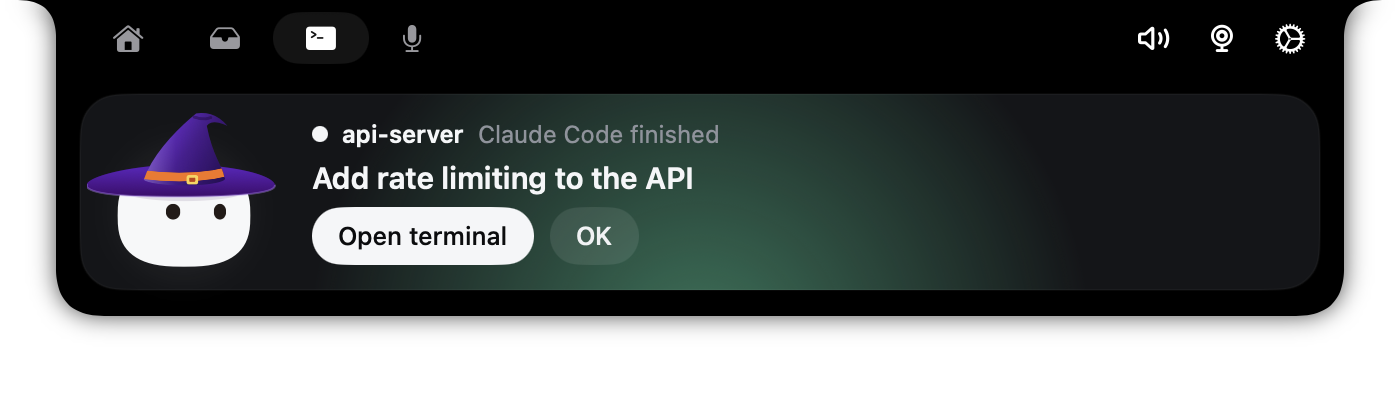
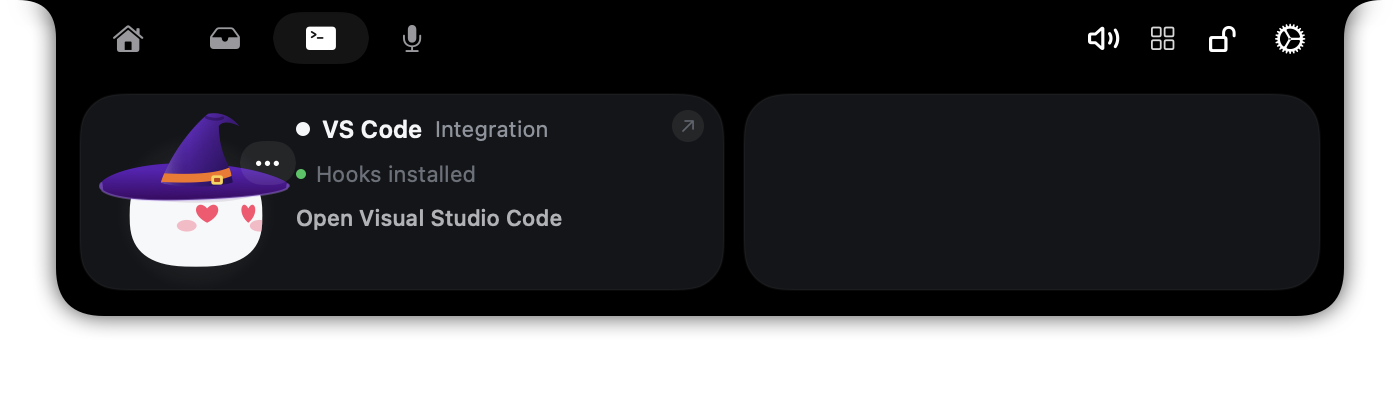
README: hero is the Home page, badges, download steps, current features; MIT licence for Tuckr's own files; own SECURITY.md and CONTRIBUTING

Changed region(s): [[0.0614, 0.2167, 0.7064, 0.7119], [0.7679, 0.0619, 0.8907, 0.1238]]

diff --git a/scripts/make-readme-images.swift b/scripts/make-readme-images.swift
@@ -47,7 +47,7 @@ func render(size: CGSize, _ body: (CGContext) -> Void, to name: String) {
 render(size: CGSize(width: 1600, height: 340), { ctx in
     let full = CGRect(x: 0, y: 0, width: 1600, height: 340)
     backdrop(ctx, full, hue: 0)
-    place(ctx, load("agents"), inTile: full, width: 1120)
+    place(ctx, load("home"), inTile: full, width: 1120)
 }, to: "hero")
 
 let names = ["home", "shelf", "agents", "meetings"]

diff --git a/README.md b/README.md
@@ -9,10 +9,22 @@
 <p align="center"><b>Everything you reach for, tucked into your Mac's notch: music, agents, messages, dictation and more.</b></p>
 
 <p align="center">
+  <a href="https://github.com/serjdmitri/Tuckr/releases/latest"><img src="https://img.shields.io/github/v/release/serjdmitri/Tuckr?label=release&color=7b5cff" alt="Latest release"></a>
+  <a href="https://github.com/serjdmitri/Tuckr/releases"><img src="https://img.shields.io/github/downloads/serjdmitri/Tuckr/total?label=downloads&color=2ea44f" alt="Downloads"></a>
+  <a href="https://github.com/serjdmitri/Tuckr/stargazers"><img src="https://img.shields.io/github/stars/serjdmitri/Tuckr?style=flat&color=e3b341" alt="Stars"></a>
+  <a href="https://github.com/serjdmitri/Tuckr/commits/main"><img src="https://img.shields.io/github/last-commit/serjdmitri/Tuckr?color=8957e5" alt="Last commit"></a>
+  <a href="https://github.com/serjdmitri/Tuckr/issues"><img src="https://img.shields.io/github/issues/serjdmitri/Tuckr?color=f0883e" alt="Open issues"></a>
+</p>
+
+<p align="center">
   <img src="https://img.shields.io/badge/macOS-26%2B-000000?logo=apple&logoColor=white" alt="macOS 26+">
+  <img src="https://img.shields.io/badge/Apple%20silicon-arm64-555555?logo=apple&logoColor=white" alt="Apple silicon">
   <img src="https://img.shields.io/badge/Swift-6-F05138?logo=swift&logoColor=white" alt="Swift">
   <img src="https://img.shields.io/badge/license-GPL--3.0-blue" alt="GPL-3.0">
-  <img src="https://img.shields.io/badge/status-personal%20build-orange" alt="Personal build">
+  <img src="https://img.shields.io/badge/own%20code-MIT-green" alt="MIT for Tuckr's own files">
+  <img src="https://img.shields.io/badge/updates-automatic%20(Sparkle)-7b5cff" alt="Automatic updates">
+  <img src="https://img.shields.io/badge/privacy-no%20telemetry-2ea44f" alt="No telemetry">
+  <img src="https://img.shields.io/badge/status-beta-orange" alt="Beta">
 </p>
 
 <p align="center">
@@ -21,15 +33,17 @@
 
 One menu-bar-free app that lives in the notch and brings three open-source projects together: [Boring Notch](https://github.com/TheBoredTeam/boring.notch) for music, calendar and a file shelf, [Coucou](https://github.com/Louis-CFM/coucou) for coding agents and a call recorder, and [Talkify](https://github.com/tornikegomareli/Talkify) for hold-Fn dictation. Four tabs at the top switch between them. When the notch is closed, music shows on the left and the agent's Mochi on the right; point at the middle for Home, at a side to open what is going on there.
 
-> **Status: personal build.** It runs daily on one Mac. Releases are unsigned DMGs (no Apple notarization): open the first time with right-click → Open. Updates arrive through Sparkle once the repository is public. See [Licensing](#licensing) before sharing it.
+> **Status: beta.** It runs daily on one Mac and has not been tested on many others yet. Releases are not notarized by Apple, so macOS asks you to confirm the first launch (see below). After that, updates arrive by themselves. See [Licensing](#licensing) for what is and is not free to reuse.
 
 ## What's in it
 
 | | |
 | --- | --- |
-| **Home** | Now playing with controls (Spotify, Apple Music), a calendar with your events, a camera mirror, and the usual volume, brightness and battery HUDs |
-| **Shelf** | Three panels: AirDrop and share on the left, a file shelf in the middle, and drop-to-transcribe on the right |
-| **Agents** | Live cards for Claude Code, Codex, Gemini CLI, Cursor and more. Approve or deny permission requests and answer questions from the notch, jump to the terminal, mute with one key. Mochi reacts to your pointer |
+| **Home** | Now playing with controls (Spotify, Apple Music), a calendar (tap the month to see the whole month, with a mark under each busy day), the weather, a camera mirror, and the usual volume, brightness and battery HUDs |
+| **Shelf** | Drag a file at the notch: AirDrop and share, a file shelf, drop-to-transcribe (Russian and 24 other languages), and **Transform** (resize, compress, convert, rotate, cut out the background, clean metadata, make a PDF, zip) |
+| **Agents** | Live cards for Claude Code, Codex, Gemini CLI, Cursor and more. Approve or deny permission requests and answer questions from the notch, jump to the terminal, mute with one key. Mochi reacts to your pointer and to what happens on your Mac. Double-click the tab for a chat with Mochi, right-click it for his quick settings |
+| **Messages and calls** | Popups for new Messages, WhatsApp, Telegram, Slack and Mail notifications with a quick reply and voice playback, and Answer / Decline for incoming FaceTime, phone and WhatsApp calls. A switch replaces macOS's own banners |
+| **Tools** | Timer, Notes (your Apple Notes), a Teleprompter you can scroll while it runs, and popups for AirPods, downloads, AirDrop, Focus and your next event |
 | **Meetings** | One press records your microphone and what your Mac plays, transcribes it on device, and writes a summary into your notes folder |
 | **Dictation** | Hold Fn and talk; the words are typed where your cursor is. Read-aloud, a HUD that takes over the notch while it works, and a keyboard board for changing every shortcut |
 
@@ -48,6 +62,15 @@ One menu-bar-free app that lives in the notch and brings three open-source proje
 </p>
 
 Coucou's hook relay (`nb-hook`) sends each agent event to a local unix socket the app listens on, which is what drives the Agents tab. Speech to text runs on device (Parakeet for meetings and Talkify's own engine for dictation), so audio does not leave the Mac.
+
+## Download
+
+1. Get **`Tuckr-x.y.z.dmg`** from the [latest release](https://github.com/serjdmitri/Tuckr/releases/latest) (Apple silicon Mac, macOS 26 or later).
+2. Open it and drag **Tuckr** into **Applications**.
+3. The first time, **right-click Tuckr → Open → Open** (the app is not notarized by Apple). If macOS still refuses: `xattr -dr com.apple.quarantine /Applications/Tuckr.app`.
+4. Follow the welcome screen; it explains each permission and asks for them one by one.
+
+Updates are checked about once a day and installed only when you say yes (**Settings → About → Check for Updates…** looks right now). Every update is signed with the author's key, and the app refuses anything that is not ([how it works](docs/UPDATES.md)).
 
 ## Build and install
 
@@ -116,6 +139,8 @@ Tuckr is provided as it is, without any warranty, as the GPL-3.0 says (sections 
 
 ## Licensing
 
-Tuckr is **GPL-3.0** (see [LICENSE](LICENSE)), because Boring Notch is. In plain words: you may use, change and share it, as long as what you share is also GPL-3.0 and comes with its source.
+Tuckr as a whole is **GPL-3.0** (see [LICENSE](LICENSE)), because Boring Notch is. In plain words: you may use, change and share it, as long as what you share is also GPL-3.0 and comes with its source.
+
+The files written for Tuckr itself (the features in `boringNotch/Extras`, the scripts, the docs and the icon) are **also available under the MIT licence** ([LICENSE-MIT](LICENSE-MIT) lists exactly which), so you can lift them out and use them in your own project. Everything else keeps its own licence: nobody can relicense Boring Notch, Talkify, Coucou or the libraries, and the whole app cannot be MIT.
 
 Not everything in the repository is free to redistribute: the names "Coucou" and "Mochi", the Mochi character, its sounds and icon belong to their author ([details](licenses/Coucou/LICENSE-ASSETS.md)), and one of Talkify's sound effects ("Plunger pop", CC-BY-NC) may only be used non-commercially. The Siri-style dictation orb uses images with no licence. All of that is fine for personal use and has to be sorted out before any wider release.

diff --git a/SECURITY.md b/SECURITY.md
@@ -1,11 +1,17 @@
 # Security Policy
 
-## Reporting a Vulnerability
+## Reporting a vulnerability
 
-The Bored Team and community take security bugs in Boring Notch seriously. We appreciate your efforts to responsibly disclose your findings, and will make every effort to acknowledge your contributions.
+Please report security problems **privately** through GitHub: open the repository's **Security** tab and choose **Report a vulnerability** ([direct link](https://github.com/serjdmitri/Tuckr/security/advisories/new)). Please do not open a public issue for something that could be abused.
 
-To report a security issue, please use the GitHub Security Advisory ["Report a Vulnerability"](https://github.com/TheBoredTeam/boring.notch/security/advisories/new) tab.
+I will answer as soon as I can, tell you what happens next, and credit you in the fix if you like.
 
-The Bored Team will send a response indicating the next steps in handling your report. After the initial reply to your report, we will keep you informed of the progress towards a fix and full announcement, and may ask for additional information or guidance.
+## What is worth reporting
 
-Report security bugs in third-party dependencies to the person or team maintaining the package or dependency.
+- Anything that lets another app or person read what Tuckr shows (messages, notes, keys).
+- Anything that lets someone push a bad update: updates are signed, and the app refuses an unsigned update or update list (see [docs/UPDATES.md](docs/UPDATES.md)).
+- Anything that makes Tuckr run something it should not.
+
+## Third-party code
+
+Report problems in Boring Notch, Talkify, Coucou or a library to its own project (see [CREDITS.md](CREDITS.md)). If it also affects Tuckr, tell me too.

diff --git a/CONTRIBUTING.md b/CONTRIBUTING.md
@@ -4,7 +4,7 @@ Thank you for taking the time to contribute! ❤
 
 These guidelines help streamline the contribution process for everyone involved. By following them, you'll make it easier for maintainers to review your work and collaborate with you effectively.
 
-You can contribute in many ways: writing code, improving documentation, reporting bugs, requesting features, or creating tutorials and blog posts. Every contribution, large or small, helps make Boring Notch better.
+You can contribute in many ways: writing code, improving documentation, reporting bugs, requesting features, or creating tutorials and blog posts. Every contribution, large or small, helps make Tuckr better.
 
 ## Table of Contents
 
@@ -21,7 +21,7 @@ You can contribute in many ways: writing code, improving documentation, reportin
 
 ## Localizations
 
-Please submit all translations to [Crowdin](https://crowdin.com/project/boring-notch). New strings added to the `dev` branch from code changes will sync automatically to Crowdin, and Crowdin will automatically open a new PR with translations to allow us to integrate them.
+Tuckr has no translation project of its own yet. To help translate, open an issue or a pull request that edits `boringNotch/Localizable.xcstrings`.
 
 ## Contributing Code
 
